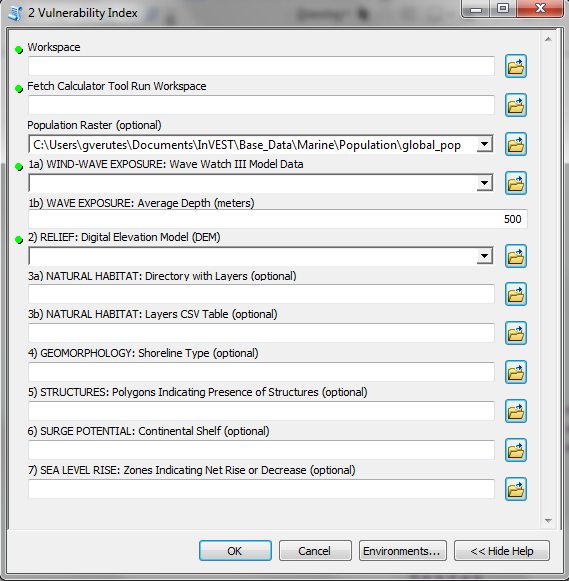
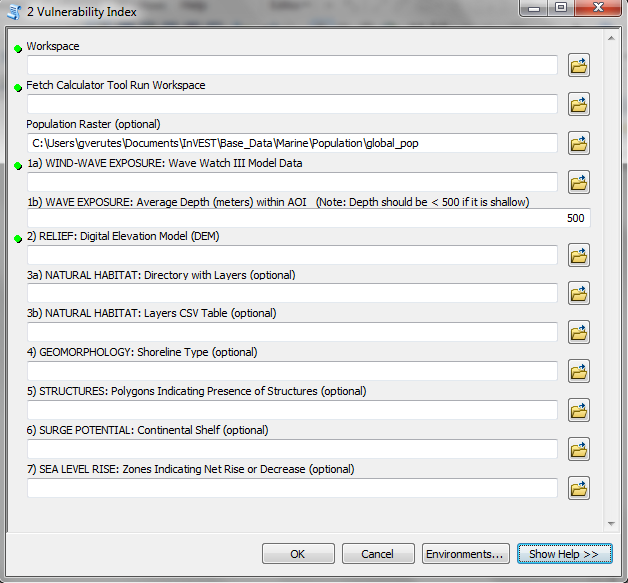
Updated CVT0 images to reflect change to AvgDepth input.

Changed region(s): [[0.0, 0.0, 1.0, 1.0]]

diff --git a/source/coastal_vulnerability.rst b/source/coastal_vulnerability.rst
@@ -53,7 +53,13 @@ How it works
 
 The model creates the population and exposure index maps using a mixture of raster GIS and user input datasets of population and seven bio-geophysical variables:
 
-#.	Geomorphology #.	Relief #.	Natural habitats (biotic and abiotic) #.	Net sea level change #.	Wind Exposure #.	Wave Exposure #.	Edge of continental shelf depth contour (or other depth contour that be used to estimate surge potential)
+1.	Geomorphology
+2.	Relief
+3.	Natural habitats (biotic and abiotic)
+4.	Net sea level change
+5.	Wind Exposure
+6.	Wave Exposure
+7.	Edge of continental shelf depth contour (or other depth contour that be used to estimate surge potential)
 
 Outputs are mapped on the shoreline of the coastal region of interest with a spatial resolution that you define (it can be as small as 250 meters).  We provide a default global, high resolution shoreline database (Wessel and Smith 1996) to represent coastlines of most regions of the world.  Below are details on how the output maps are created.
 
@@ -348,7 +354,7 @@ Vulnerability Index
 
 4. **Wind-Wave Exposure: Wave Watch III Model Data (required).**  This input is used to compute the Wind and Wave Exposure ranking of each shoreline segment (:ref:`table-41`).  It consists of a point shapefile that contains the location of the grid points as well as wave and wind values that represent storm conditions at that location.  If you would like to create such a file from your own data, please consult :ref:`cv-appendix-b`.
 
-5. **Wave Exposure: Average Depth (meters) (required).** [GG: INSERT DESCRIPTION]
+5. **Wave Exposure: Average Depth (meters) within AOI (required).** [GG: INSERT TEXT] Note: Depth should be less than 500 meters if it is shallow.
 
 6. **Relief: Digital Elevation Model (DEM) (required).**  This input is used to compute the Relief ranking of each shoreline segment (:ref:`table-41`).  It should consist of elevation information covering the entire AOI.  Focal statistics are computed on the input DEM within a 1,500m range for each pixel of coastline.  The average of elevation values within this range is ranked relative to all other coastline segments within the AOI.::
 
